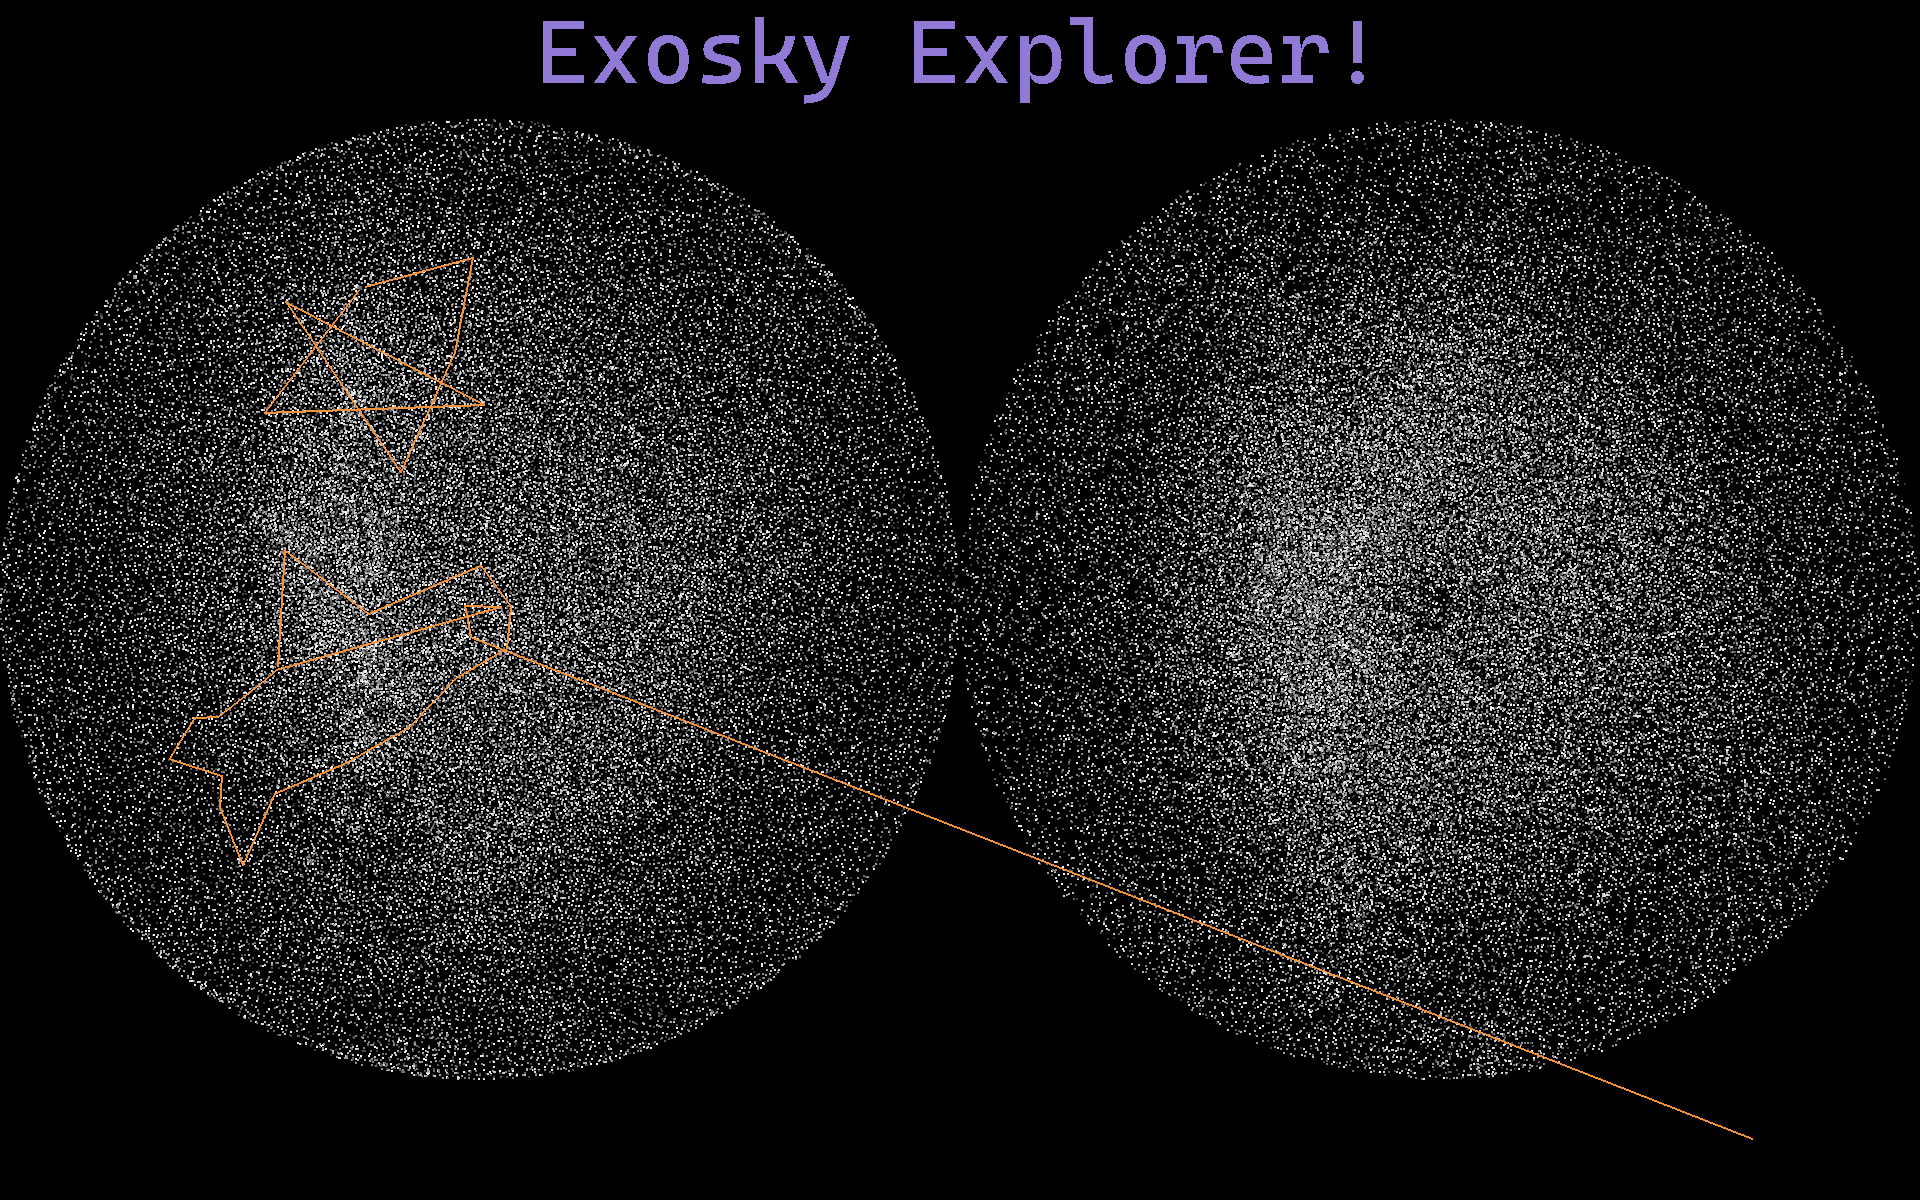
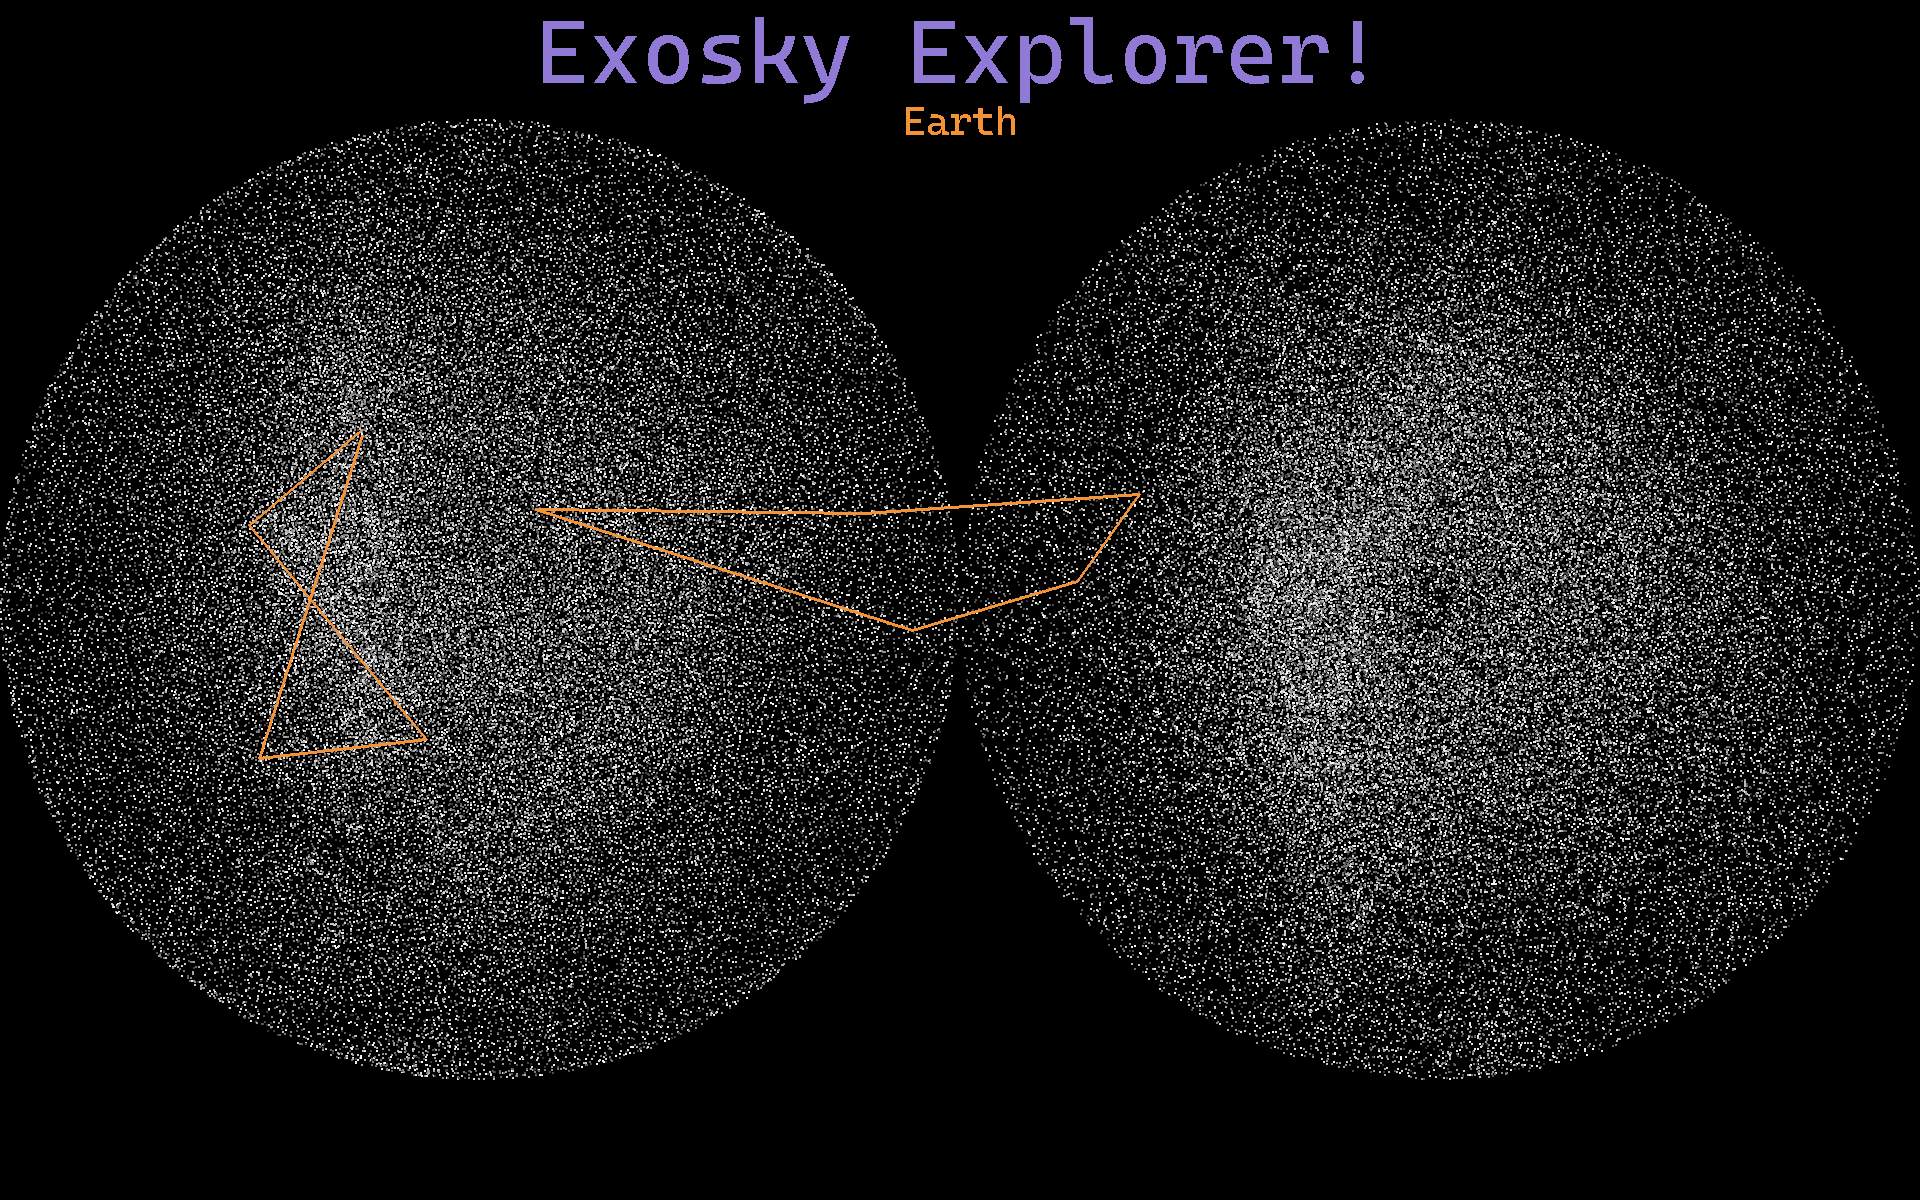
saves planet name in image now

Changed region(s): [[0.0, 0.1233, 1.0, 0.8942], [0.4688, 0.0925, 0.5312, 0.1233], [0.7188, 0.1233, 0.75, 0.1542]]

diff --git a/pygame_test.py b/pygame_test.py
@@ -84,9 +84,9 @@ while True:
         if start_button.collidepoint(pos):
             start = True
     else:
+        text_rect = planet_text.get_rect(center=(size[0]/2, 120))
+        window_surface.blit(planet_text, text_rect)
         if not(saving):
-            text_rect = planet_text.get_rect(center=(size[0]/2, 120))
-            window_surface.blit(planet_text, text_rect)
             switch_button = pygame.draw.rect(window_surface, '#F39237', pygame.Rect(1435, 15, 355, 60), 0, 3) 
             window_surface.blit(switch_text, (1450, 20))
             constellation_button = pygame.draw.rect(window_surface, '#F39237', pygame.Rect(70, 15, 345, 60), 0, 3)
@@ -113,7 +113,7 @@ while True:
             exit()
         j = 0;
         for i in range(int(len(arr)/4)):
-            pygame.draw.line(window_surface, '#F39237', (arr[j], arr[j+1]), (arr[j+2], arr[j+3]), 2)
+            pygame.draw.line(window_surface, '#F39237', (arr[j], arr[j+1]), (arr[j+2], arr[j+3]), 3)
             j+=4
         if saving:
             pygame.image.save(window_surface, "image.png")
